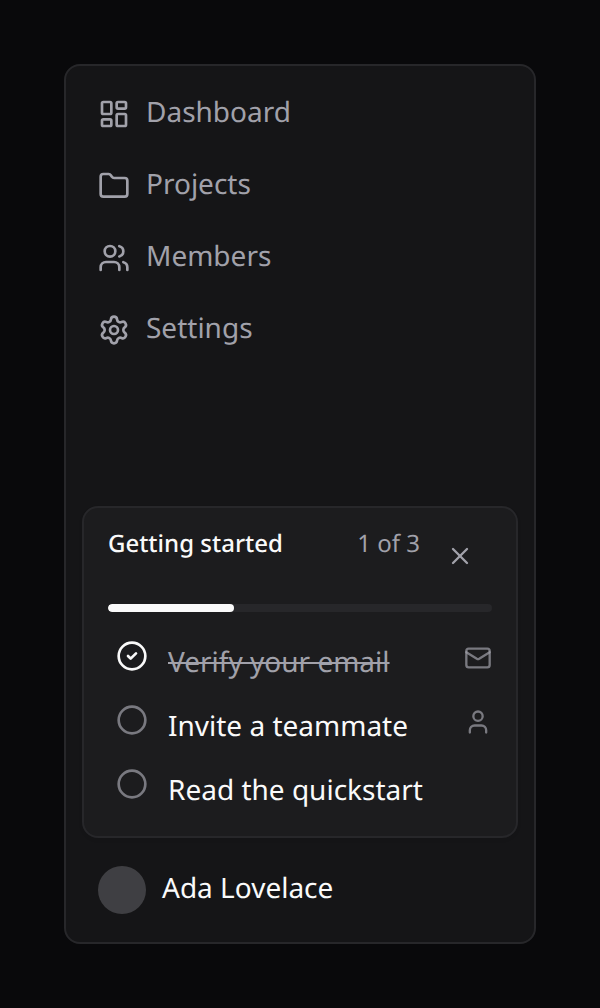
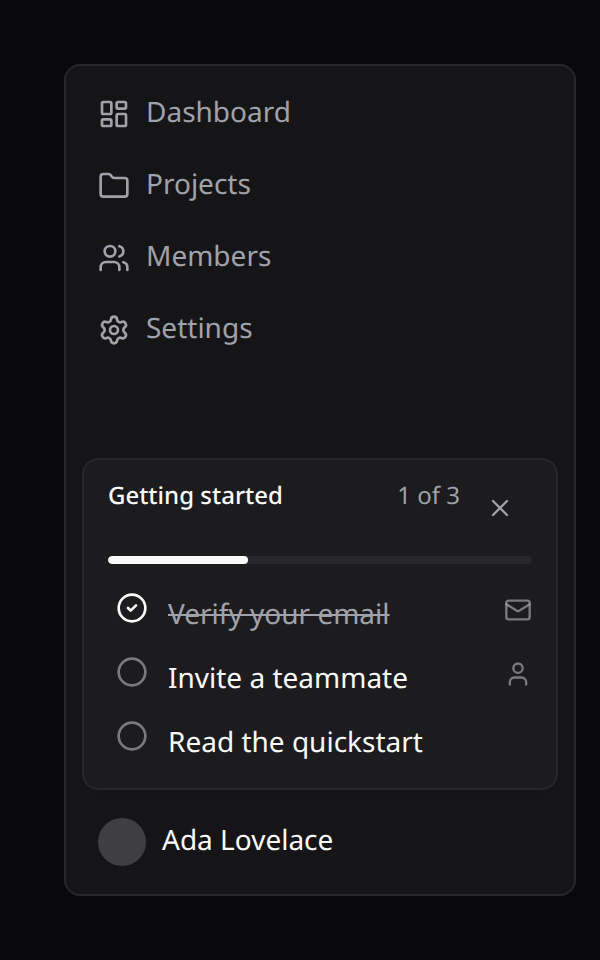
docs(onboarding): a gallery specimen for the collapsed rail — the "it folds away with the sidebar" claim was prose, now it's a screenshot
`onboarding-checklist-sidebar-collapsed` renders the same mock rail twice, side
by side: expanded, and carrying shadcn's real contract (`group` +
`data-collapsible="icon"`). The block is in the first and gone from the second,
so `group-data-[collapsible=icon]:hidden` is demonstrated by rendering rather
than asserted.

Both sidebar specimens now share one rail builder and pin their footer to the
bottom of a fixed-height column, the way a real sidebar behaves — the previous
one floated the checklist right under a spacer.

diff --git a/gallery/specimens.ts b/gallery/specimens.ts
@@ -46,49 +46,103 @@ import KinetixReportsCenter from '@/components/KinetixReportsCenter.vue';
 import KinetixConfidentialUnlock from '@/components/KinetixConfidentialUnlock.vue';
 
 // The onboarding checklist's `sidebar` variant is sized for a navigation rail,
-// so the specimen frames it in a mock one — nav rows above, the account row
+// so the specimens frame it in a mock one — nav rows above, the account row
 // below — instead of floating it on a blank card.
-const railRow = (icon: Component, label: string) =>
+const RAIL_ITEMS: Array<[Component, string]> = [
+    [LayoutDashboard, 'Dashboard'],
+    [Folder, 'Projects'],
+    [Users, 'Members'],
+    [Settings, 'Settings'],
+];
+
+const railRow = (icon: Component, label: string, collapsed: boolean) =>
+    collapsed
+        ? h(
+              'div',
+              {
+                  class: 'size-8 grid place-items-center rounded-md text-muted-foreground',
+              },
+              [h(icon, { class: 'size-4' })],
+          )
+        : h(
+              'div',
+              {
+                  class: 'gap-2 px-2 py-1.5 flex items-center rounded-md text-sm text-muted-foreground',
+              },
+              [h(icon, { class: 'size-4' }), label],
+          );
+
+const railAccount = (collapsed: boolean) =>
     h(
         'div',
         {
-            class: 'gap-2 px-2 py-1.5 flex items-center rounded-md text-sm text-muted-foreground',
+            class: collapsed
+                ? 'size-8 mt-1 grid place-items-center'
+                : 'gap-2 mt-1 px-2 py-1.5 flex items-center rounded-md',
         },
-        [h(icon, { class: 'size-4' }), label],
+        [
+            h('span', { class: 'size-6 rounded-full bg-muted-foreground/30' }),
+            collapsed
+                ? null
+                : h(
+                      'span',
+                      { class: 'text-sm text-foreground' },
+                      'Ada Lovelace',
+                  ),
+        ],
     );
 
-const OnboardingSidebarShowcase: Component = {
+/**
+ * A mock shadcn sidebar. `collapsed` reproduces the real contract the checklist
+ * keys off — the root carries `group` + `data-collapsible="icon"`, exactly as
+ * shadcn-vue's `<Sidebar collapsible="icon">` does once the rail collapses — so
+ * `group-data-[collapsible=icon]:hidden` on the block matches and it folds away
+ * on its own. The specimen proves that instead of asserting it.
+ */
+const onboardingRail = (collapsed: boolean): Component => ({
     render() {
         return h(
             'div',
             {
-                class: 'gap-1 p-2 flex flex-col rounded-lg border border-border bg-muted/40',
+                class: [
+                    'group gap-1 p-2 h-[26rem] flex flex-col rounded-lg border border-border bg-muted/40',
+                    collapsed ? 'w-14' : 'w-64',
+                ],
+                'data-collapsible': collapsed ? 'icon' : '',
             },
             [
-                railRow(LayoutDashboard, 'Dashboard'),
-                railRow(Folder, 'Projects'),
-                railRow(Users, 'Members'),
-                railRow(Settings, 'Settings'),
-                h('div', { class: 'h-16' }),
-                h(KinetixOnboardingChecklist, { variant: 'sidebar' }),
-                h(
-                    'div',
-                    {
-                        class: 'gap-2 mt-1 px-2 py-1.5 flex items-center rounded-md',
-                    },
-                    [
-                        h('span', {
-                            class: 'size-6 rounded-full bg-muted-foreground/30',
-                        }),
-                        h(
-                            'span',
-                            { class: 'text-sm text-foreground' },
-                            'Ada Lovelace',
-                        ),
-                    ],
+                ...RAIL_ITEMS.map(([icon, label]) =>
+                    railRow(icon, label, collapsed),
                 ),
+                h('div', { class: 'flex-1' }),
+                h(KinetixOnboardingChecklist, { variant: 'sidebar' }),
+                railAccount(collapsed),
             ],
         );
+    },
+});
+
+const OnboardingSidebarShowcase = onboardingRail(false);
+
+/** Expanded next to icon-collapsed — the block is there, then it isn't. */
+const OnboardingSidebarCollapsedShowcase: Component = {
+    render() {
+        const column = (caption: string, rail: Component) =>
+            h('div', { class: 'gap-2 flex flex-col' }, [
+                h(
+                    'span',
+                    {
+                        class: 'text-xs font-medium whitespace-nowrap text-muted-foreground',
+                    },
+                    caption,
+                ),
+                h(rail),
+            ]);
+
+        return h('div', { class: 'gap-6 flex items-start' }, [
+            column('Expanded', onboardingRail(false)),
+            column('Collapsed', onboardingRail(true)),
+        ]);
     },
 };
 
@@ -1816,6 +1870,12 @@ export const specimens: Specimen[] = [
         title: 'Onboarding checklist — sidebar variant',
         component: OnboardingSidebarShowcase,
         width: 300,
+    },
+    {
+        name: 'onboarding-checklist-sidebar-collapsed',
+        title: 'Onboarding checklist — expanded vs. icon-collapsed rail',
+        component: OnboardingSidebarCollapsedShowcase,
+        width: 420,
     },
     {
         name: 'form-schema',

diff --git a/.agents/skills/kinetix-development/SKILL.md b/.agents/skills/kinetix-development/SKILL.md
@@ -619,7 +619,7 @@ First-run experience. Roadmap v0.15.0. Three pieces: a backend-driven **checklis
   - `group-data-[collapsible=icon]:hidden` on the root is shadcn's own sidebar contract — the block folds away when the rail collapses to icons, and the class never matches outside a sidebar. Dark surface is `dark:bg-muted/40`, NOT `bg-card`: shadcn's `--sidebar` and `--card` are the same value in dark, so a plain card reads as a bare outline on the rail.
   - **Shared payload (v0.171.0)**: `Inertia::share('kinetix_onboarding', …)` ships `OnboardingManager::for($user)` on every response when `onboarding.enabled` && `onboarding.share` (default true) && authenticated — same pattern as `kinetix_announcements`. `useKinetixOnboarding` overlays a local `ref` on the shared prop (`state = computed(() => local ?? shared)`), so `load()` short-circuits when the payload is there (`load(true)` forces) and `complete`/`dismiss` results win until the next response. **`progressFor()` is now `firstOrNew`, not `firstOrCreate`** — `for()` runs on EVERY request, so a read must not write a row. Cost to call out to hosts: every `completedUsing` callback runs per response.
   - a11y additions applied to BOTH variants: the progress bar gained an `aria-label` + `aria-valuetext`, every decorative icon is `aria-hidden`, and each row carries an `sr-only` `onboarding_status_completed|pending` so completion isn't signalled by the strike-through alone. New keys: `onboarding_progress_short`, `onboarding_mark_done_step`, `onboarding_status_completed`, `onboarding_status_pending` (x7 locales).
-- Tests: `OnboardingTest` (auto vs manual completion, persistence, per-user isolation, dismiss, 401, shared payload present/absent, read writes no row), `useKinetixOnboarding.spec.ts` (payload hydration, forced refetch, local-wins), `KinetixOnboardingChecklist.spec.ts` (both variants: counter, collapse class, stretched link, tick button, sr-only status, progressbar naming), `useKinetixTour.spec.ts`. Gallery: `onboarding-checklist`, `onboarding-checklist-sidebar` (framed in a mock nav rail).
+- Tests: `OnboardingTest` (auto vs manual completion, persistence, per-user isolation, dismiss, 401, shared payload present/absent, read writes no row), `useKinetixOnboarding.spec.ts` (payload hydration, forced refetch, local-wins), `KinetixOnboardingChecklist.spec.ts` (both variants: counter, collapse class, stretched link, tick button, sr-only status, progressbar naming), `useKinetixTour.spec.ts`. Gallery: `onboarding-checklist`, `onboarding-checklist-sidebar` (framed in a mock nav rail) and `onboarding-checklist-sidebar-collapsed` (the same rail expanded next to one carrying `group` + `data-collapsible="icon"` — the collapse contract is proven by rendering, not asserted).
 - Full guide: `docs/onboarding.md`.
 
 ---

diff --git a/CHANGELOG.md b/CHANGELOG.md
@@ -13,6 +13,15 @@ and this project adheres to [Semantic Versioning](https://semver.org/spec/v2.0.0
 
 ## [Unreleased]
 
+### Added
+
+- `onboarding-checklist-sidebar-collapsed` gallery specimen: the same mock rail
+  expanded and collapsed side by side, the second one carrying shadcn's real
+  `group` + `data-collapsible="icon"` contract — so the "it folds away with the
+  rail" claim is demonstrated by rendering rather than asserted in prose. Both
+  sidebar specimens now pin their footer to the bottom of a fixed-height rail,
+  the way a real sidebar behaves.
+
 ## [0.171.0] - 2026-08-15
 
 The onboarding checklist stops paying for itself on every page: its state rides

diff --git a/docs/onboarding.md b/docs/onboarding.md
@@ -162,6 +162,8 @@ Nothing else to wire:
   `:hide-when-complete="false"`.
 - **It inherits your theme.** Tokens only, light and dark.
 
+<Screenshot name="onboarding-checklist-sidebar-collapsed" alt="The same rail expanded and collapsed to icons — the checklist is gone in the collapsed one" />
+
 > **Keep it short.** A rail has no scroll budget of its own — six steps is about
 > the ceiling before the block starts pushing your navigation around. Long
 > checklists belong in the `card` variant on a dedicated page.
